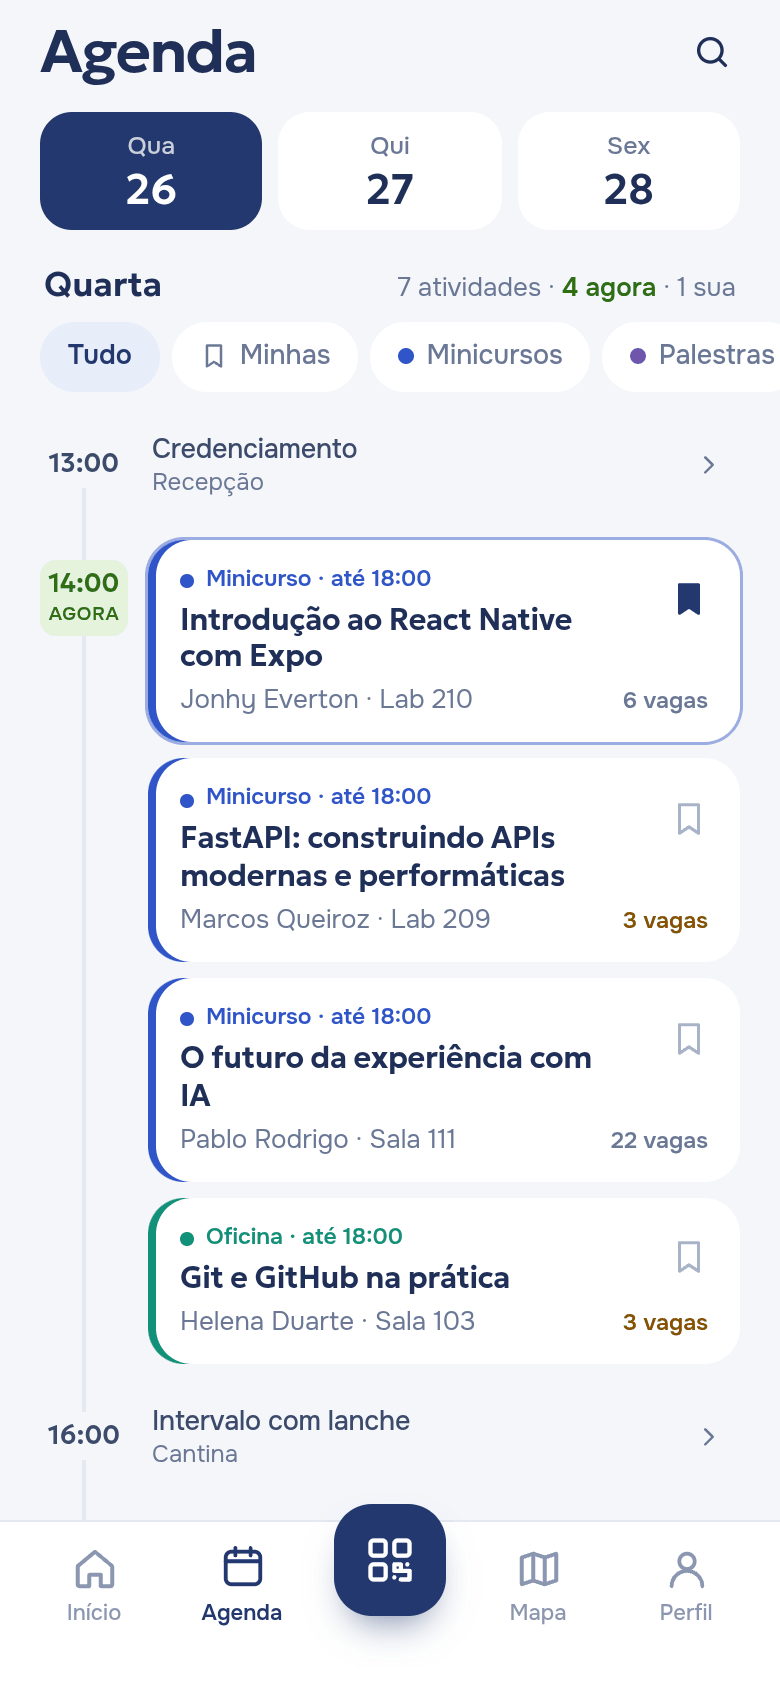
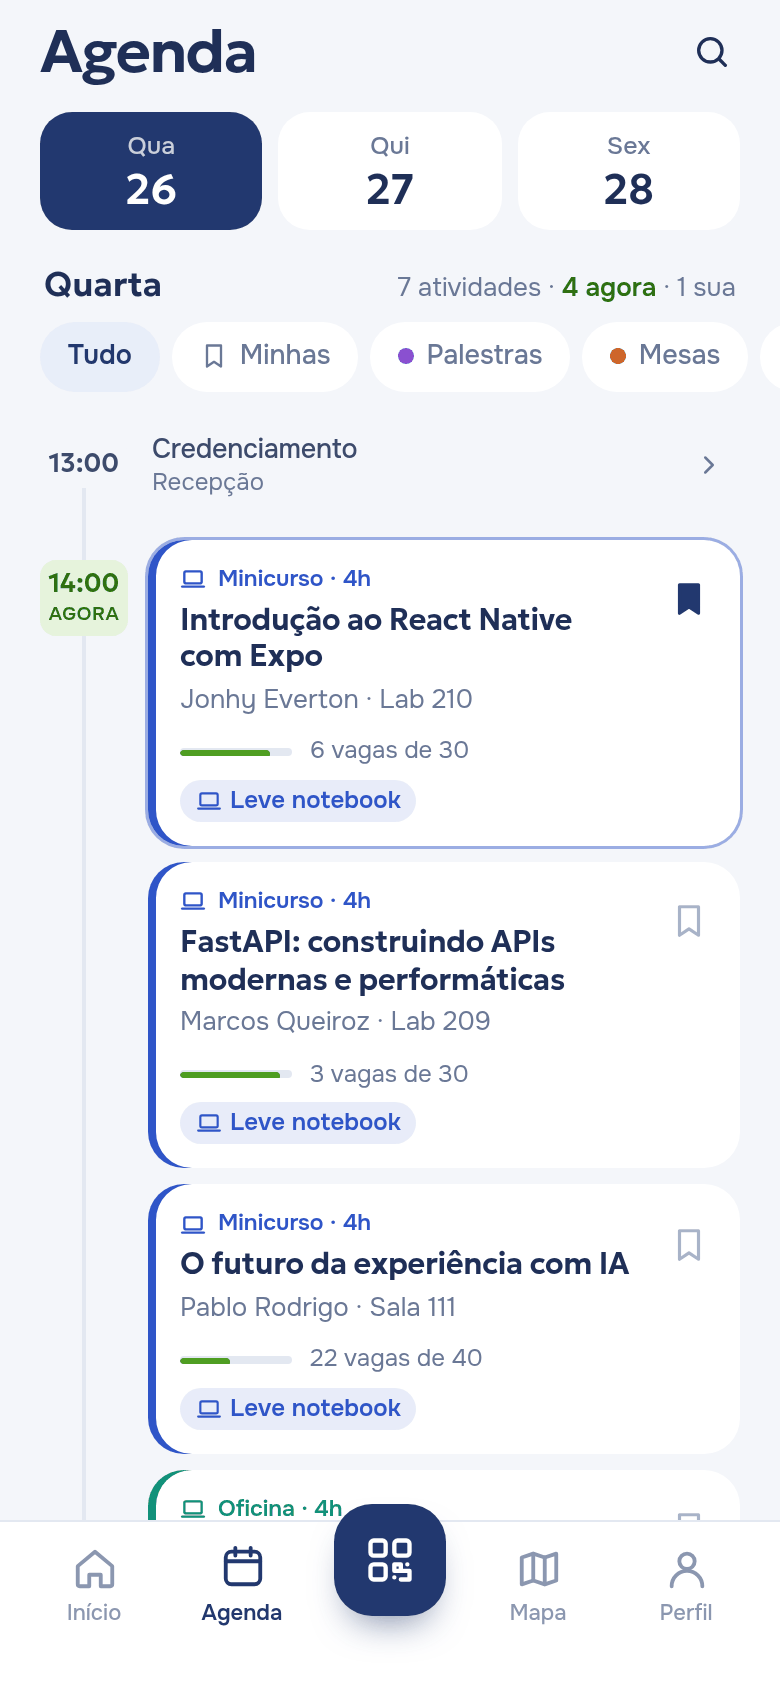
Agenda e detalhe com cara própria para cada tipo de atividade
- Palestra destaca quem fala e já recebe perguntas
- Mesa-redonda mostra a roda de conversa, com a mediação primeiro
- Minicurso e oficina mostram vagas, o que se faz e o que levar
- Campeonato vira card com a arte do jogo e abre a chave
- Filtros da agenda por tipo; tipos novos entram em TIPOS

diff --git a/prototipo/app.js b/prototipo/app.js
@@ -87,13 +87,28 @@
   };
   const goOf = (x) => (x.tournament ? `data-go="tournament" data-id="${x.tournament}"` : `data-go="activity" data-id="${x.id}"`);
   const mapAct = (x) => (x.place ? `data-act="openplace" data-id="${x.place}"` : `data-act="openmap" data-floor="${x.floor}" data-zone="${x.zone}"`);
+  /* Tipos de atividade: cada um tem cor (classe tp-*), ícone, card próprio na agenda e um bloco próprio no detalhe.
+     g é o filtro da agenda (oficina anda junto com minicurso: as duas são mão na massa). Tipos novos entram aqui;
+     o que não estiver na lista vira uma parada simples (credenciamento, intervalo, abertura…). */
+  const TIPOS = {
+    Palestra: { k: 'pal', g: 'pal', icon: 'mic', plural: 'Palestras', formato: 'Uma pessoa fala; perguntas no fim' },
+    'Mesa-redonda': { k: 'mesa', g: 'mesa', icon: 'chat', plural: 'Mesas', formato: 'Conversa entre convidados; a plateia pergunta' },
+    Minicurso: { k: 'mini', g: 'mini', icon: 'laptop', plural: 'Minicursos', formato: 'Aula prática, no computador' },
+    Oficina: { k: 'ofi', g: 'mini', icon: 'laptop', plural: 'Oficinas', formato: 'Mão na massa, em grupo' },
+    Campeonato: { k: 'camp', g: 'camp', icon: 'trophy', plural: 'Campeonatos', formato: 'Chave eliminatória' },
+  };
+  const TIPOS_G = new Set(['pal', 'mesa', 'mini', 'camp']);
+  const tipoDe = (x) => TIPOS[x.type] || { k: 'out', g: 'out', icon: 'cal', formato: '' };
+  const duracao = (x) => { if (!x.end) return ''; const [a, b] = [x.time, x.end].map((t) => { const [h, m] = t.split(':').map(Number); return h * 60 + m; }); const d = b - a; return d >= 60 ? `${Math.floor(d / 60)}h${d % 60 ? String(d % 60).padStart(2, '0') : ''}` : `${d} min`; };
+  const pessoasDe = (x) => [{ name: x.speakerShort, initials: x.initials, role: x.role }, ...(x.guests || [])].filter((p) => p.name);
+  const leva = (x) => /notebook|computador/i.test(x.requirements || '');
   const whereOf = (x) => (x.floor === undefined ? x.room : `${x.room} · ${floorOf(x.floor).label}`);
   const isNow = (x) => x.day === D.now.day && x.time <= D.now.time && D.now.time < x.end;
   /* Mapa novo: a rota sai da sala da atividade em que a pessoa está inscrita acontecendo agora; sem ela, da portaria. */
   const origemAgora = () => { const x = D.sessions.find((q) => S.saved.has(q.id) && isNow(q) && Number.isInteger(q.floor) && q.zone); return x ? { floor: x.floor, zone: x.zone, titulo: x.room || x.short || x.title } : null; };
   const speakersList = () => { const seen = new Set(); return D.sessions.filter((x) => x.speakerShort && !seen.has(x.speakerShort) && seen.add(x.speakerShort)); };
   const hoursOf = (s) => { const [a, b] = [s.time, s.end].map((t) => { const [h, m] = t.split(':').map(Number); return h + m / 60; }); return b - a; };
-  const seatLine = (s) => (!s.seats ? '' : s.taken >= s.seats ? 'Vagas esgotadas' : `${s.seats - s.taken} vagas de ${s.seats}`);
+  const seatLine = (s) => (!s.seats ? '' : s.taken >= s.seats ? 'Vagas esgotadas' : `${s.seats - s.taken} ${s.seats - s.taken === 1 ? 'vaga' : 'vagas'} de ${s.seats}`);
   const seatBar = (s) => !s.seats ? '' : `<span class="seats ${s.taken >= s.seats ? 'full' : ''}"><i style="width:${Math.round((s.taken / s.seats) * 100)}%"></i></span>`;
   /* Ilustrações dos estados vazios: colmeia em traço fino, sempre com o motivo da tela. */
   /* Favo sendo preenchido: a célula do meio traz o motivo da tela, e as outras acendem em sequência. */
@@ -619,18 +634,27 @@
   Screens.agenda = () => {
     const day = S.agendaDay, f = S.agendaFilter;
     let list = D.sessions.filter((s) => s.day === day);
-    if (['Minicurso', 'Palestra', 'Oficina'].includes(f)) list = list.filter((s) => s.type === f);
+    if (['pal', 'mesa', 'mini', 'camp'].includes(f)) list = list.filter((s) => tipoDe(s).g === f);
     if (f === 'saved') list = list.filter((s) => S.saved.has(s.id));
     const slots = [...new Set(list.map((s) => s.time))];
     const idx = D.days.findIndex((d) => d.day === day);
-    const filters = [['all', 'Tudo'], ['saved', 'Minhas'], ['Minicurso', 'Minicursos'], ['Palestra', 'Palestras'], ['Oficina', 'Oficinas']];
+    const filters = [['all', 'Tudo'], ['saved', 'Minhas'], ['pal', 'Palestras'], ['mesa', 'Mesas'], ['mini', 'Minicursos'], ['camp', 'Campeonatos']].filter(([k]) => !TIPOS_G.has(k) || D.sessions.some((x) => tipoDe(x).g === k));
 /* Cada tipo tem a sua cor (a mesma do filtro) e a fileira é curta: tipo e até que horas, título, quem e onde, vagas. */
-    const tp = (t) => ({ Minicurso: 'mini', Palestra: 'pal', Oficina: 'ofi' })[t] || 'out';
-    const vagas = (s) => (!s.seats ? '' : s.taken >= s.seats ? '<span class="ag-vagas full">Lotado</span>' : `<span class="ag-vagas ${s.seats - s.taken <= 5 ? 'low' : ''}">${s.seats - s.taken} vagas</span>`);
-    const row = (s) => s.simple
-      ? `<li class="ag-stop" ${goOf(s)}><div class="ag-tx"><h4>${s.title}</h4><p>${s.room}</p></div>${ic('chev', 'i card-chev')}</li>`
-      : `<li class="tp-${tp(s.type)} ${S.saved.has(s.id) ? 'mine' : ''} ${isNow(s) ? 'now' : ''}" ${goOf(s)}><div class="ag-tx"><span class="ag-kind"><i></i>${s.type}${s.end ? ` · até ${s.end}` : ''}</span><h4>${s.title}</h4><p>${s.speakerShort} · ${s.room}</p></div>
-          <div class="ag-side"><button class="bm ${S.saved.has(s.id) ? 'on' : ''}" data-act="save" data-id="${s.id}" aria-label="${S.saved.has(s.id) ? 'Remover dos salvos' : 'Salvar'}">${ic('bookmark')}</button>${vagas(s)}</div></li>`;
+    const tp = (k) => (TIPOS_G.has(k) ? k : 'out');
+    const vagas = (s) => (!s.seats ? '' : s.taken >= s.seats ? '<span class="ag-vagas full">Lotado</span>' : `<span class="ag-vagas ${s.seats - s.taken <= 5 ? 'low' : ''}">${s.seats - s.taken} ${s.seats - s.taken === 1 ? 'vaga' : 'vagas'}</span>`);
+    /* um card por tipo: palestra destaca quem fala; mesa, quem conversa; minicurso e oficina, vagas e o que levar;
+       campeonato abre a chave, com a arte do jogo */
+    const bm = (s) => `<button class="bm ${S.saved.has(s.id) ? 'on' : ''}" data-act="save" data-id="${s.id}" aria-label="${S.saved.has(s.id) ? 'Remover dos salvos' : 'Salvar'}">${ic('bookmark')}</button>`;
+    const kind = (s) => { const t = tipoDe(s); return `<span class="ag-kind">${ic(t.icon)}${s.type}${duracao(s) ? ` · ${duracao(s)}` : ''}</span>`; };
+    const cls = (s) => `tp-${tipoDe(s).k} ${S.saved.has(s.id) ? 'mine' : ''} ${isNow(s) ? 'now' : ''}`;
+    const CARDS = {
+      pal: (s) => `<li class="${cls(s)} ag-pal" ${goOf(s)}><div class="ag-tx">${kind(s)}<h4>${s.title}</h4><div class="ag-who">${spAv(s)}<span><b>${s.speakerShort}</b><small>${s.role} · ${s.room}</small></span></div></div><div class="ag-side">${bm(s)}${vagas(s)}</div></li>`,
+      mesa: (s) => { const ps = pessoasDe(s); return `<li class="${cls(s)} ag-mesa" ${goOf(s)}><div class="ag-tx">${kind(s)}<h4>${s.title}</h4><div class="ag-who"><span class="ag-rodada">${ps.slice(0, 4).map((p) => spAv(p)).join('')}</span><span><b>${s.speakerShort.split(' ')[0]} e mais ${ps.length - 1}</b><small>Mediação · ${s.room}</small></span></div></div><div class="ag-side">${bm(s)}${vagas(s)}</div></li>`; },
+      mini: (s) => `<li class="${cls(s)} ag-mini" ${goOf(s)}><div class="ag-tx">${kind(s)}<h4>${s.title}</h4><p>${s.speakerShort} · ${s.room}</p><div class="ag-pratica">${seatBar(s)}<span>${seatLine(s)}</span>${leva(s) ? `<em>${ic('laptop')}Leve notebook</em>` : ''}</div></div><div class="ag-side">${bm(s)}</div></li>`,
+      camp: (s) => { const t = D.tournaments.find((x) => x.id === s.tournament); if (!t) return CARDS.out(s); const n = tourSt(t).players.filter(Boolean).length; return `<li class="${cls(s)} ag-camp ${t.theme}" ${goOf(s)}><span class="ag-arte">${t.logo ? `<img src="${t.logo}" alt="">` : ic('trophy')}</span><div class="ag-tx">${kind(s)}<h4>${t.name}</h4><p>${t.format} · ${n} na chave · ${s.room}</p></div>${ic('chev', 'i card-chev')}</li>`; },
+      out: (s) => `<li class="ag-stop" ${goOf(s)}><div class="ag-tx"><h4>${s.title}</h4><p>${s.room}</p></div>${ic('chev', 'i card-chev')}</li>`,
+    };
+    const row = (s) => (CARDS[tipoDe(s).g] || CARDS.out)(s);
     const agora = list.filter(isNow).length; const meus = D.sessions.filter((x) => x.day === day && S.saved.has(x.id)).length;
     const dia = dayOf(day);
     return {
@@ -638,7 +662,7 @@
       <div class="pad stack agenda">
         <div class="days st" style="--i:0;--k:${idx}"><i class="days-ind"></i>${D.days.map((d) => `<button class="${d.day === day ? 'on' : ''}" data-act="day" data-day="${d.day}">${d.week}<b>${d.day}</b></button>`).join('')}</div>
         <p class="ag-resumo st" ${st(1)}><b>${dia.long ? dia.long.split(',')[0] : dia.week}</b><span>${list.length} ${list.length === 1 ? 'atividade' : 'atividades'}${agora ? ` · <em>${agora} agora</em>` : ''}${meus ? ` · ${meus} ${meus === 1 ? 'sua' : 'suas'}` : ''}</span></p>
-        <div class="chips ag-chips st" ${st(1)}>${filters.map(([k, t]) => `<button class="${k === f ? 'on' : ''} f-${tp(k)}" data-act="filter" data-f="${k}">${['Minicurso', 'Palestra', 'Oficina'].includes(k) ? '<i></i>' : ''}${k === 'saved' ? ic('bookmark') : ''}${t}</button>`).join('')}</div>
+        <div class="chips ag-chips st" ${st(1)}>${filters.map(([k, t]) => `<button class="${k === f ? 'on' : ''} f-${tp(k)}" data-act="filter" data-f="${k}">${TIPOS_G.has(k) ? '<i></i>' : ''}${k === 'saved' ? ic('bookmark') : ''}${t}</button>`).join('')}</div>
         <div class="agenda-list ag-trilho" data-swap>
         ${slots.length ? slots.map((t, si) => { const noSlot = list.filter((s) => s.time === t); const vivo = noSlot.some(isNow); return `<div class="slot st ${vivo ? 'now' : ''}" ${st(2 + si)}><time>${t}${vivo ? '<em>agora</em>' : ''}</time><div>${noSlot.filter((s) => S.saved.has(s.id)).length > 1 ? `<p class="clash">${ic('info')}Você salvou mais de uma atividade neste horário.</p>` : ''}<ul class="ag">${noSlot.map(row).join('')}</ul></div></div>`; }).join('')
           : f === 'saved' ? savedEmpty(day) : `<div class="empty st" ${st(2)}>${illo('mark')}<h3>Nada neste dia</h3><p>Escolha outro filtro para ver mais atividades.</p><button class="btn soft" data-act="filter" data-f="all">Ver tudo</button></div>`}
@@ -715,16 +739,26 @@
         </div>`,
       };
     }
+    /* bloco de cada tipo: palestra destaca quem fala; mesa mostra a roda de conversa; minicurso e oficina, o que se faz e o que levar */
+    const t = tipoDe(s);
+    const quem = t.g === 'mesa'
+      ? `<section class="roda st" ${st(2)}><h2 class="h">Quem conversa</h2><ul>${pessoasDe(s).map((p, i) => `<li>${spAv(p)}<span><b>${p.name}</b><small>${i === 0 ? 'Mediação' : p.role}</small></span></li>`).join('')}</ul></section>`
+      : `<button class="teacher ${t.g === 'pal' ? 'quem-fala' : ''} st" ${st(2)} data-go="speaker" data-id="${id}">${spAv(s, t.g === 'pal')}<span>${t.g === 'pal' ? '<small>Quem fala</small>' : ''}<b>${s.speakerShort}</b><small>${s.role}</small></span>${ic('chev', 'i card-chev')}</button>`;
+    const perguntas = `<section class="block st" ${st(6)}><div class="sec"><h2>Perguntas</h2><button data-act="ask" data-id="${id}">Perguntar</button></div>${questionsOf(id)}</section>`;
+    const extra = t.g === 'mini'
+      ? `${s.learn?.length ? `<section class="block pratica st" ${st(6)}><h2 class="h">O que você vai fazer</h2><ul class="learn">${s.learn.map((l) => `<li>${ic('check')}<span>${l}</span></li>`).join('')}</ul></section>` : ''}${s.requirements ? `<div class="levar st" ${st(6)}>${ic('laptop')}<span><b>Leve para a sala</b><small>${s.requirements}</small></span></div>` : ''}`
+      : t.g === 'pal' || t.g === 'mesa' ? perguntas : '';
     return {
       mount: mountThumb(s),
       html: `${header('', { right: `<button class="iconbtn bm ${S.saved.has(id) ? 'on' : ''}" data-act="save" data-id="${id}" aria-label="Salvar">${ic('bookmark')}</button>` })}
       <div class="pad stack detail">
-        <span class="kind st" ${st(0)}>${s.type}</span>
+        <span class="kind kind-tp tp-${t.k} st" ${st(0)}>${ic(t.icon)}${s.type}${duracao(s) ? ` · ${duracao(s)}` : ''}</span>
         <h1 class="title-lg st" ${st(1)}>${s.title}</h1>
-        <button class="teacher st" ${st(2)} data-go="speaker" data-id="${id}">${spAv(s)}<span><b>${s.speakerShort}</b><small>${s.role}</small></span>${ic('chev', 'i card-chev')}</button>
-        <ul class="info st" ${st(3)}><li>${ic('cal')}${d.long} · ${s.time} às ${s.end}</li><li>${ic('pin')}${whereOf(s)}</li><li>${ic('users')}<span>${seatLine(s)}</span>${seatBar(s)}</li></ul>
+        ${quem}
+        <ul class="info st" ${st(3)}><li>${ic('cal')}${d.long} · ${s.time} às ${s.end}</li><li>${ic('pin')}${whereOf(s)}</li>${t.formato ? `<li>${ic(t.icon)}${t.formato}</li>` : ''}<li>${ic('users')}<span>${seatLine(s)}</span>${seatBar(s)}</li></ul>
         ${thumb(s, 4)}
         <p class="desc st" ${st(5)}>${s.description}</p>
+        ${extra}
         <button class="remindrow st ${S.reminders.has(id) ? 'on' : ''}" ${st(6)} data-act="remind" data-id="${id}" aria-pressed="${S.reminders.has(id)}">${ic('alarm')}<span>${S.reminders.has(id) ? `Lembrete às ${hhmm(toMin(s.time) - LEAD)}` : `Lembrar ${LEAD} minutos antes`}<small>${S.reminders.has(id) ? `Com sala e tempo a pé${notifState() === 'granted' ? '' : ', dentro do app'}` : 'Aviso com a sala e o caminho'}</small></span><i class="switch"></i></button>
         ${S.reminders.has(id) ? `<button class="remindtest st" ${st(6)} data-act="remindtest" data-id="${id}">${ic('bell')}Ver como o lembrete chega</button>` : ''}
         <div class="locked st" ${st(7)}>${ic('lock')}<span>${s.materials.length} materiais ficam disponíveis quando você registrar presença na sala.</span></div>

diff --git a/prototipo/sw.js b/prototipo/sw.js
@@ -5,7 +5,7 @@
    - Login (api/): sempre pela rede, nunca guardado.
    A lista e a versão abaixo são geradas por scripts/build-pwa.py. */
 /* <gerado> */
-const VERSION = 'ec3c290e1d';
+const VERSION = '14cc2babf7';
 const CORE = ["./", "index.html", "manifest.webmanifest", "config.js", "api.js", "vendor/jsQR.js", "app.js", "app.css", "data.js", "plan-data.js", "campus-data.js", "campus-fundo.js", "campus-limpo.js", "campus-entorno.js", "campus-verde.js", "sprites.js", "campus3d.js", "assets/banner-fifa.jpg", "assets/etal-logo.png", "assets/icon.svg", "assets/logo-mk.png", "assets/nadic-logo.svg", "assets/pwa/apple-touch-icon.png", "assets/pwa/icon-192.png", "assets/pwa/icon-512.png", "assets/pwa/maskable-512.png", "assets/sprites/cobble-color-dark.webp", "assets/sprites/cobble-color-light.webp", "assets/sprites/cobble-mono-dark.webp", "assets/sprites/cobble-mono-light.webp", "assets/sprites/houses-color-dark.webp", "assets/sprites/houses-color-light.webp", "assets/sprites/houses-mono-dark.webp", "assets/sprites/houses-mono-light.webp", "assets/sprites/ribs-color-dark.webp", "assets/sprites/ribs-color-light.webp", "assets/sprites/ribs-event-dark.webp", "assets/sprites/ribs-event-light.webp", "assets/sprites/ribs-mono-dark.webp", "assets/sprites/ribs-mono-light.webp", "assets/sprites/roof-color-dark.webp", "assets/sprites/roof-color-light.webp", "assets/sprites/roof-event-blue-dark.webp", "assets/sprites/roof-event-blue-light.webp", "assets/sprites/roof-event-dark.webp", "assets/sprites/roof-event-honey-dark.webp", "assets/sprites/roof-event-honey-light.webp", "assets/sprites/roof-event-light.webp", "assets/sprites/roof-mono-dark.webp", "assets/sprites/roof-mono-light.webp", "assets/sprites/telha-color-dark.webp", "assets/sprites/telha-color-light.webp", "assets/sprites/telha-mono-dark.webp", "assets/sprites/telha-mono-light.webp", "assets/sprites/trees-color-dark.webp", "assets/sprites/trees-color-light.webp", "assets/sprites/trees-mono-dark.webp", "assets/sprites/trees-mono-light.webp", "assets/sprites/wall-color-dark.webp", "assets/sprites/wall-color-light.webp", "assets/sprites/wall-event-blue-dark.webp", "assets/sprites/wall-event-blue-light.webp", "assets/sprites/wall-event-dark.webp", "assets/sprites/wall-event-honey-dark.webp", "assets/sprites/wall-event-honey-light.webp", "assets/sprites/wall-event-light.webp", "assets/sprites/wall-mono-dark.webp", "assets/sprites/wall-mono-light.webp", "assets/suap-logo.svg", "mapa3d/assets/modelos/plant_bushDetailed.glb", "mapa3d/assets/modelos/plant_bushLarge.glb", "mapa3d/assets/modelos/tree_default.glb", "mapa3d/assets/modelos/tree_detailed.glb", "mapa3d/assets/modelos/tree_fat.glb", "mapa3d/assets/modelos/tree_oak.glb", "mapa3d/assets/modelos/tree_palmBend.glb", "mapa3d/assets/modelos/tree_palmDetailedShort.glb", "mapa3d/assets/modelos/tree_palmDetailedTall.glb", "mapa3d/assets/modelos/tree_palmTall.glb", "mapa3d/assets/modelos/tree_plateau.glb", "mapa3d/assets/sketchbook/boxman.glb", "mapa3d/assets/sketchbook/car.glb", "mapa3d/index.html", "mapa3d/src/abertura.js", "mapa3d/src/camera.js", "mapa3d/src/colisao.js", "mapa3d/src/dados.js", "mapa3d/src/detalhes.js", "mapa3d/src/entorno.js", "mapa3d/src/estilo.js", "mapa3d/src/geo.js", "mapa3d/src/interface.css", "mapa3d/src/interface.js", "mapa3d/src/interior.js", "mapa3d/src/main.js", "mapa3d/src/moveis.js", "mapa3d/src/palco.js", "mapa3d/src/passeio.js", "mapa3d/src/predios.js", "mapa3d/src/principal.js", "mapa3d/src/rotas.js", "mapa3d/src/subidas.js", "mapa3d/src/terreno.js", "mapa3d/src/texturas.js", "mapa3d/src/vegetacao.js", "mapa3d/src/viagem.js", "mapa3d/vendor/addons/controls/MapControls.js", "mapa3d/vendor/addons/controls/OrbitControls.js", "mapa3d/vendor/addons/loaders/GLTFLoader.js", "mapa3d/vendor/addons/utils/BufferGeometryUtils.js", "mapa3d/vendor/three.module.min.js"];
 /* </gerado> */
 const SHELL = `etal-app-${VERSION}`;

diff --git a/prototipo/app.css b/prototipo/app.css
@@ -1872,3 +1872,45 @@ html.passeio-cheio .statusbar{height:0!important;padding:0}
   .device .statusbar{height:env(safe-area-inset-top,0px)!important;padding:0!important;background:transparent!important}
   .overlay{top:env(safe-area-inset-top,0px)}
 }
+
+/* ---- Tipos de atividade (TIPOS em app.js): cada um com cor, card na agenda e bloco no detalhe ---- */
+.f-mesa,.tp-mesa{--tp:#d0651f}
+.f-camp,.tp-camp{--tp:#d6332c}
+.ag-kind .i{width:13px;height:13px;stroke-width:2.2}
+.ag-who{display:flex;align-items:center;gap:9px;margin-top:8px}
+.ag-who .ava{width:30px;height:30px;font-size:11px;flex:none}
+.ag-who b{display:block;font-size:13px;font-weight:600;color:var(--ink)}
+.ag-who small{display:block;font-size:12px;color:var(--muted)}
+.ag li.ag-pal,.ag li.ag-mesa{background:linear-gradient(135deg,color-mix(in srgb,var(--tp) 9%,var(--card)),var(--card) 62%)}
+.ag-rodada{display:flex;flex:none}
+.ag-rodada .ava{width:26px;height:26px;font-size:9.5px;letter-spacing:-.02em;margin-left:-5px;box-shadow:0 0 0 2px var(--card)}
+.ag-rodada .ava:first-child{margin-left:0}
+.ag-pratica{display:flex;align-items:center;flex-wrap:wrap;gap:6px 9px;margin-top:8px;font-size:12px;color:var(--muted)}
+.ag-pratica .seats{flex:0 0 56px;margin:0}
+.ag-pratica em{font-style:normal;display:inline-flex;align-items:center;gap:4px;font-weight:600;color:var(--tp);background:color-mix(in srgb,var(--tp) 11%,transparent);padding:2px 8px;border-radius:999px}
+.ag-pratica em .i{width:13px;height:13px}
+.ag li.ag-camp{align-items:center;gap:12px;padding:10px 12px 10px 10px;color:#fff;background:linear-gradient(120deg,#1a1d2e,#43151f);box-shadow:none}
+.ag li.ag-camp.mine{box-shadow:0 0 0 2px var(--tp)}
+.ag li.ag-camp.fifa{background:linear-gradient(120deg,#0b2a4a,#0e5a3c)}
+.ag-camp .ag-arte{width:56px;height:56px;border-radius:12px;background:rgba(255,255,255,.08);display:grid;place-items:center;flex:none;overflow:hidden}
+.ag-camp .ag-arte img{width:50px;height:auto}
+.ag-camp .ag-arte .i{width:26px;height:26px;color:#ffd27a}
+.ag-camp .ag-kind{color:#ffb4a8}
+.ag-camp.fifa .ag-kind{color:#9fe3b8}
+.ag-camp h4{color:#fff}
+.ag-camp p{color:rgba(255,255,255,.74)}
+.ag-camp .card-chev{color:rgba(255,255,255,.7);flex:none}
+.kind-tp{display:inline-flex;align-items:center;gap:6px;align-self:flex-start;color:var(--tp)!important;background:color-mix(in srgb,var(--tp) 11%,transparent);padding:4px 11px 4px 9px;border-radius:999px}
+.kind-tp .i{width:15px;height:15px}
+.teacher.quem-fala{padding:14px;background:linear-gradient(135deg,color-mix(in srgb,#8a4fd0 12%,var(--card)),var(--card))}
+.teacher.quem-fala small:first-child{font-size:10.5px;text-transform:uppercase;letter-spacing:.07em;font-weight:700;color:#8a4fd0}
+.teacher.quem-fala b{display:block;font-size:17px}
+.roda ul{list-style:none;margin:8px 0 0;padding:0;display:grid;gap:8px}
+.roda li{display:flex;align-items:center;gap:10px;background:var(--card);padding:9px 11px;border-radius:calc(14px*var(--rk,1))}
+.roda li:first-child{box-shadow:inset 3px 0 0 #d0651f}
+.roda b{display:block;font-size:14px}
+.roda small{display:block;font-size:12.5px;color:var(--muted)}
+.levar{display:flex;gap:11px;align-items:flex-start;padding:12px 14px;border-radius:calc(14px*var(--rk,1));background:color-mix(in srgb,#2f55c8 8%,var(--card));color:var(--ink-2)}
+.levar .i{width:20px;height:20px;color:#2f55c8;flex:none;margin-top:2px}
+.levar b{display:block;font-size:14px;color:var(--ink)}
+.levar small{font-size:13px}

diff --git a/prototipo/data.js b/prototipo/data.js
@@ -288,7 +288,7 @@ Object.assign(window.DATA.nadic, {
     stop({ id: 'intervalo-26', type: 'Intervalo', day: 26, time: '16:00', end: '16:20', title: 'Intervalo com lanche', short: 'Intervalo', place: 'cantina', room: 'Cantina', description: 'Pausa da tarde, na cantina.' }),
     stop({ id: 'abertura', type: 'Abertura', day: 26, time: '19:00', end: '20:00', title: 'Abertura do ETAL', short: 'Abertura', floor: 0, zone: 'auditorio', room: 'Auditório', description: 'Boas-vindas e apresentação da programação.' }),
     talk({ id: 'arduino', type: 'Oficina', day: 27, time: '08:00', end: '12:00', title: 'Primeiros passos com Arduino', short: 'Arduino', speaker: 'Rafael Nóbrega', speakerShort: 'Rafael Nóbrega', initials: 'RN', role: 'Engenheiro de sistemas embarcados', floor: 2, zone: 'labs-norte', description: 'Monte circuitos simples e programe sensores e LEDs.', learn: ['Montar um circuito simples', 'Ler um sensor e reagir a ele'], taken: 19, seats: 20 }),
-    talk({ id: 'mesa-carreira', type: 'Mesa-redonda', day: 27, time: '10:00', end: '11:30', title: 'Carreira em tecnologia no interior', short: 'Carreira no interior', speaker: 'Beatriz Lacerda', speakerShort: 'Beatriz Lacerda', initials: 'BL', role: 'Mediadora', floor: 0, zone: 'auditorio', description: 'Conversa sobre trabalho remoto, empresas locais e como começar.', learn: ['Caminhos para o primeiro emprego', 'Como montar um portfólio'], taken: 88, seats: 200 }),
+    talk({ id: 'mesa-carreira', type: 'Mesa-redonda', day: 27, time: '10:00', end: '11:30', title: 'Carreira em tecnologia no interior', short: 'Carreira no interior', speaker: 'Beatriz Lacerda', speakerShort: 'Beatriz Lacerda', initials: 'BL', role: 'Mediadora', guests: [{ name: 'Ana Paula Rêgo', initials: 'AR', role: 'Desenvolvedora em trabalho remoto' }, { name: 'Rodrigo Fernandes', initials: 'RF', role: 'Fundador de empresa local' }, { name: 'Luana Freitas', initials: 'LF', role: 'Egressa do IFRN' }], floor: 0, zone: 'auditorio', description: 'Conversa sobre trabalho remoto, empresas locais e como começar. A plateia pergunta durante a mesa.', learn: ['Caminhos para o primeiro emprego', 'Como montar um portfólio'], taken: 88, seats: 200 }),
     stop({ id: 'almoco-27', type: 'Refeição', day: 27, time: '12:00', end: '13:30', title: 'Almoço', short: 'Almoço', place: 'cantina', room: 'Cantina', description: 'Refeição na cantina do campus.' }),
     talk({ id: 'dados', type: 'Minicurso', day: 27, time: '14:00', end: '18:00', title: 'Análise de dados com Python', short: 'Dados com Python', speaker: 'Marina Telles', speakerShort: 'Marina Telles', initials: 'MT', role: 'Analista de dados', floor: 1, zone: 'sala-interna-sul-0', description: 'Limpe, explore e visualize dados com Pandas.', requirements: 'Notebook com Python instalado.', learn: ['Ler e limpar planilhas com Pandas', 'Fazer gráficos claros'], taken: 27, seats: 30 }),
     stop({ id: 'jogo-mk', type: 'Campeonato', day: 27, time: '14:00', end: '15:20', title: 'Campeonato de Mortal Kombat', short: 'Mortal Kombat', tournament: 'mk', floor: 1, zone: 'sala-norte-1', room: 'Sala 102', description: 'Eliminação simples, melhor de três.' }),
